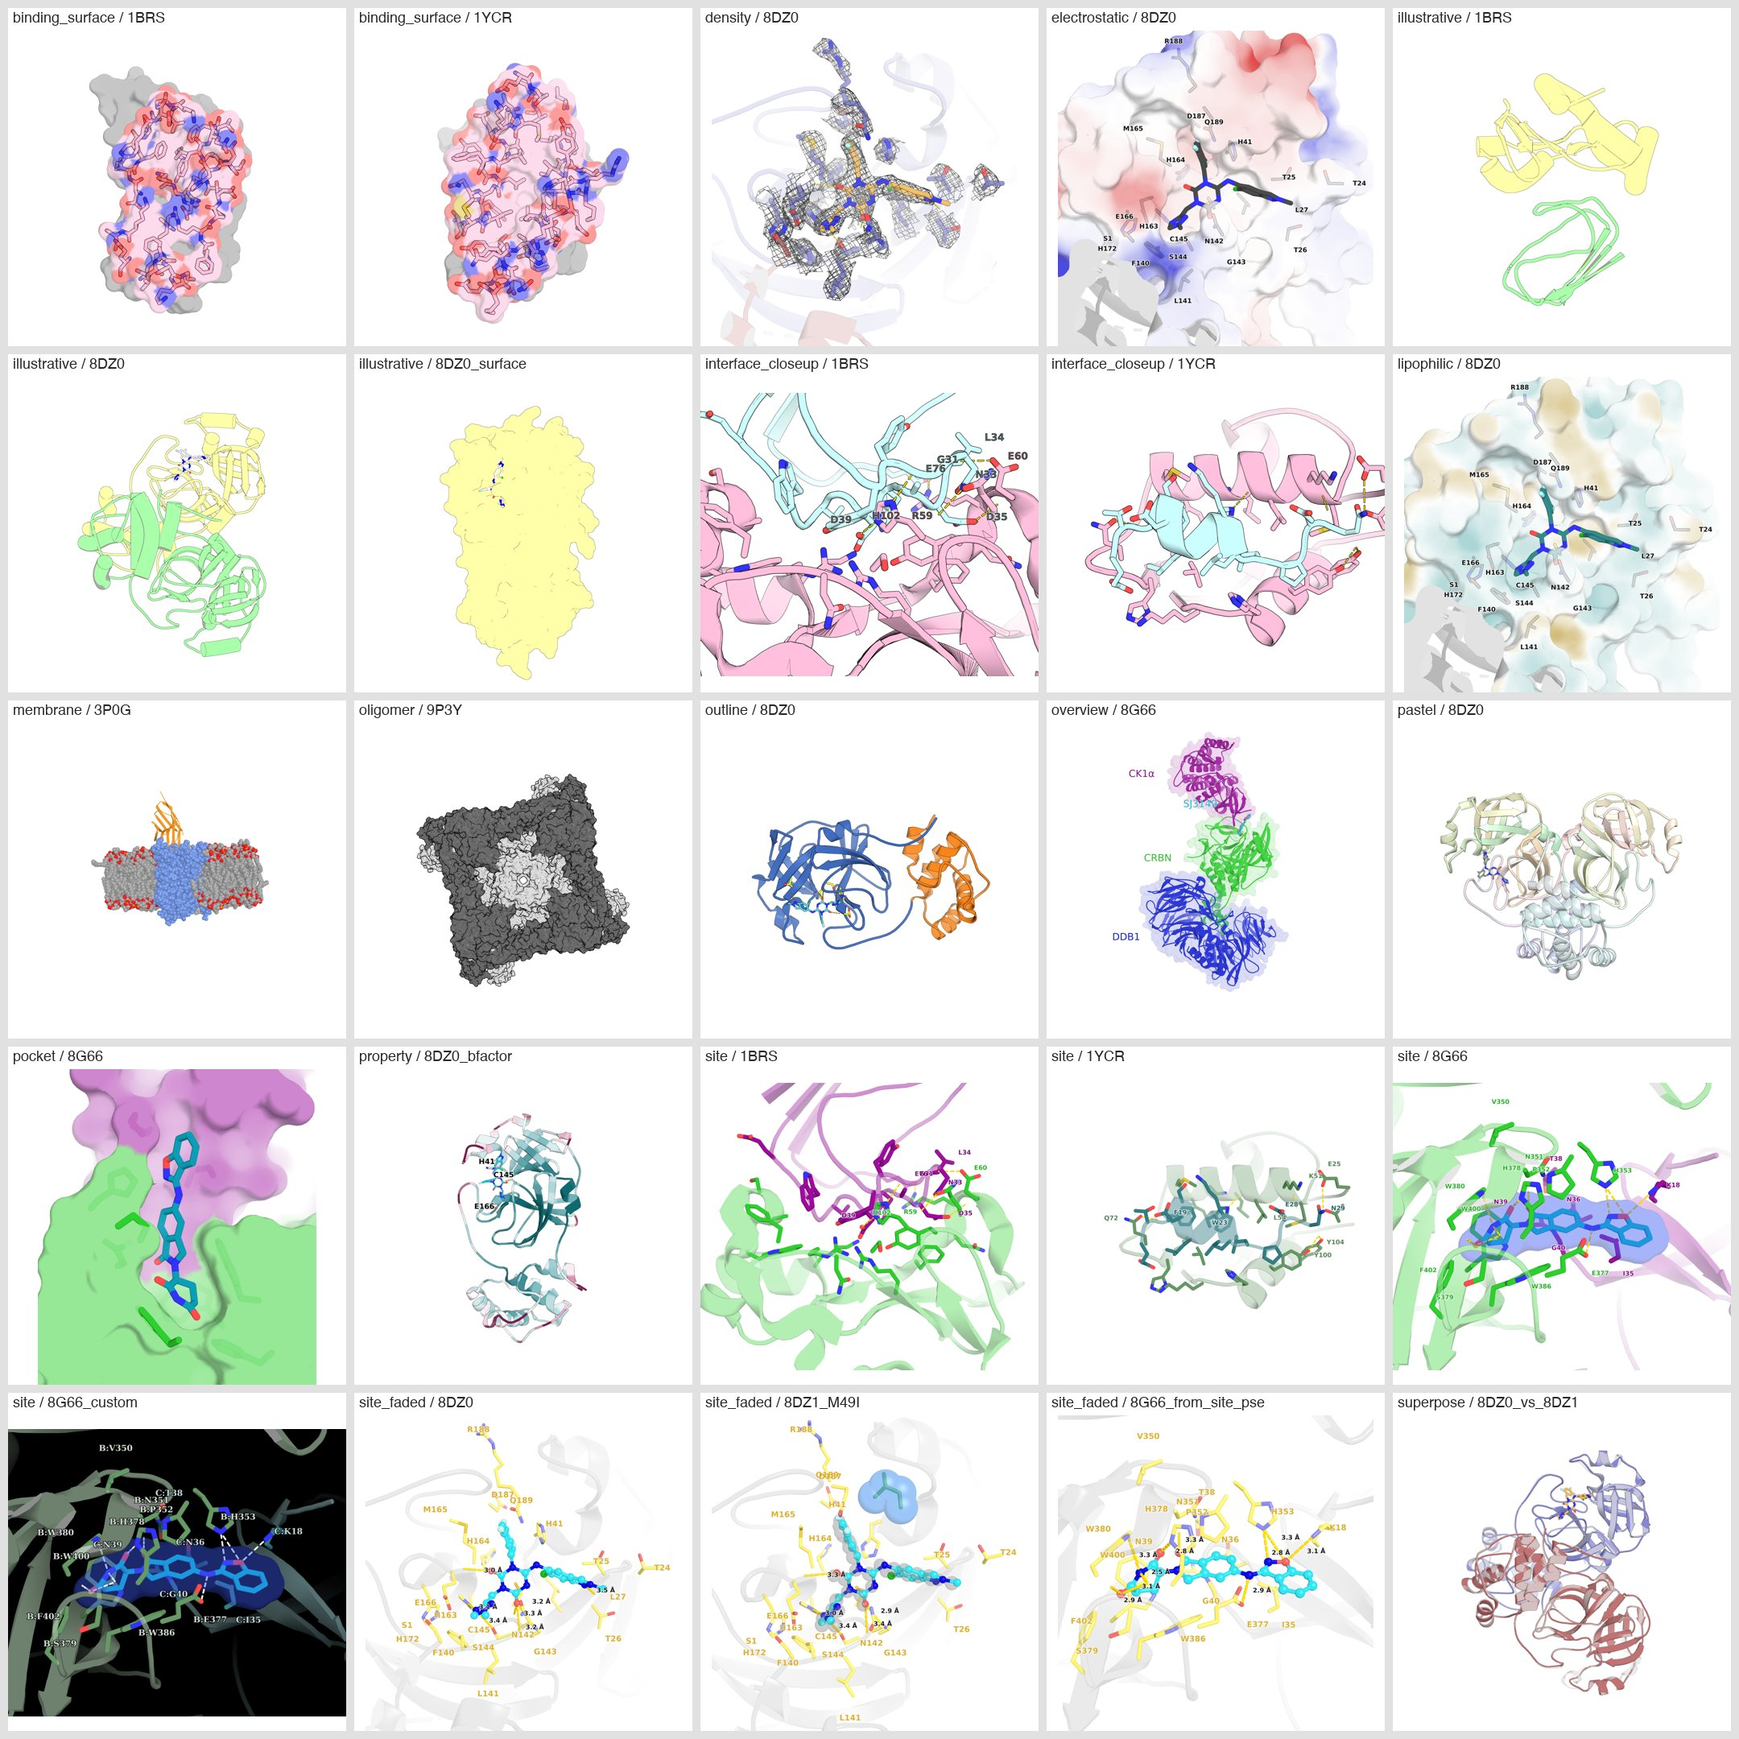
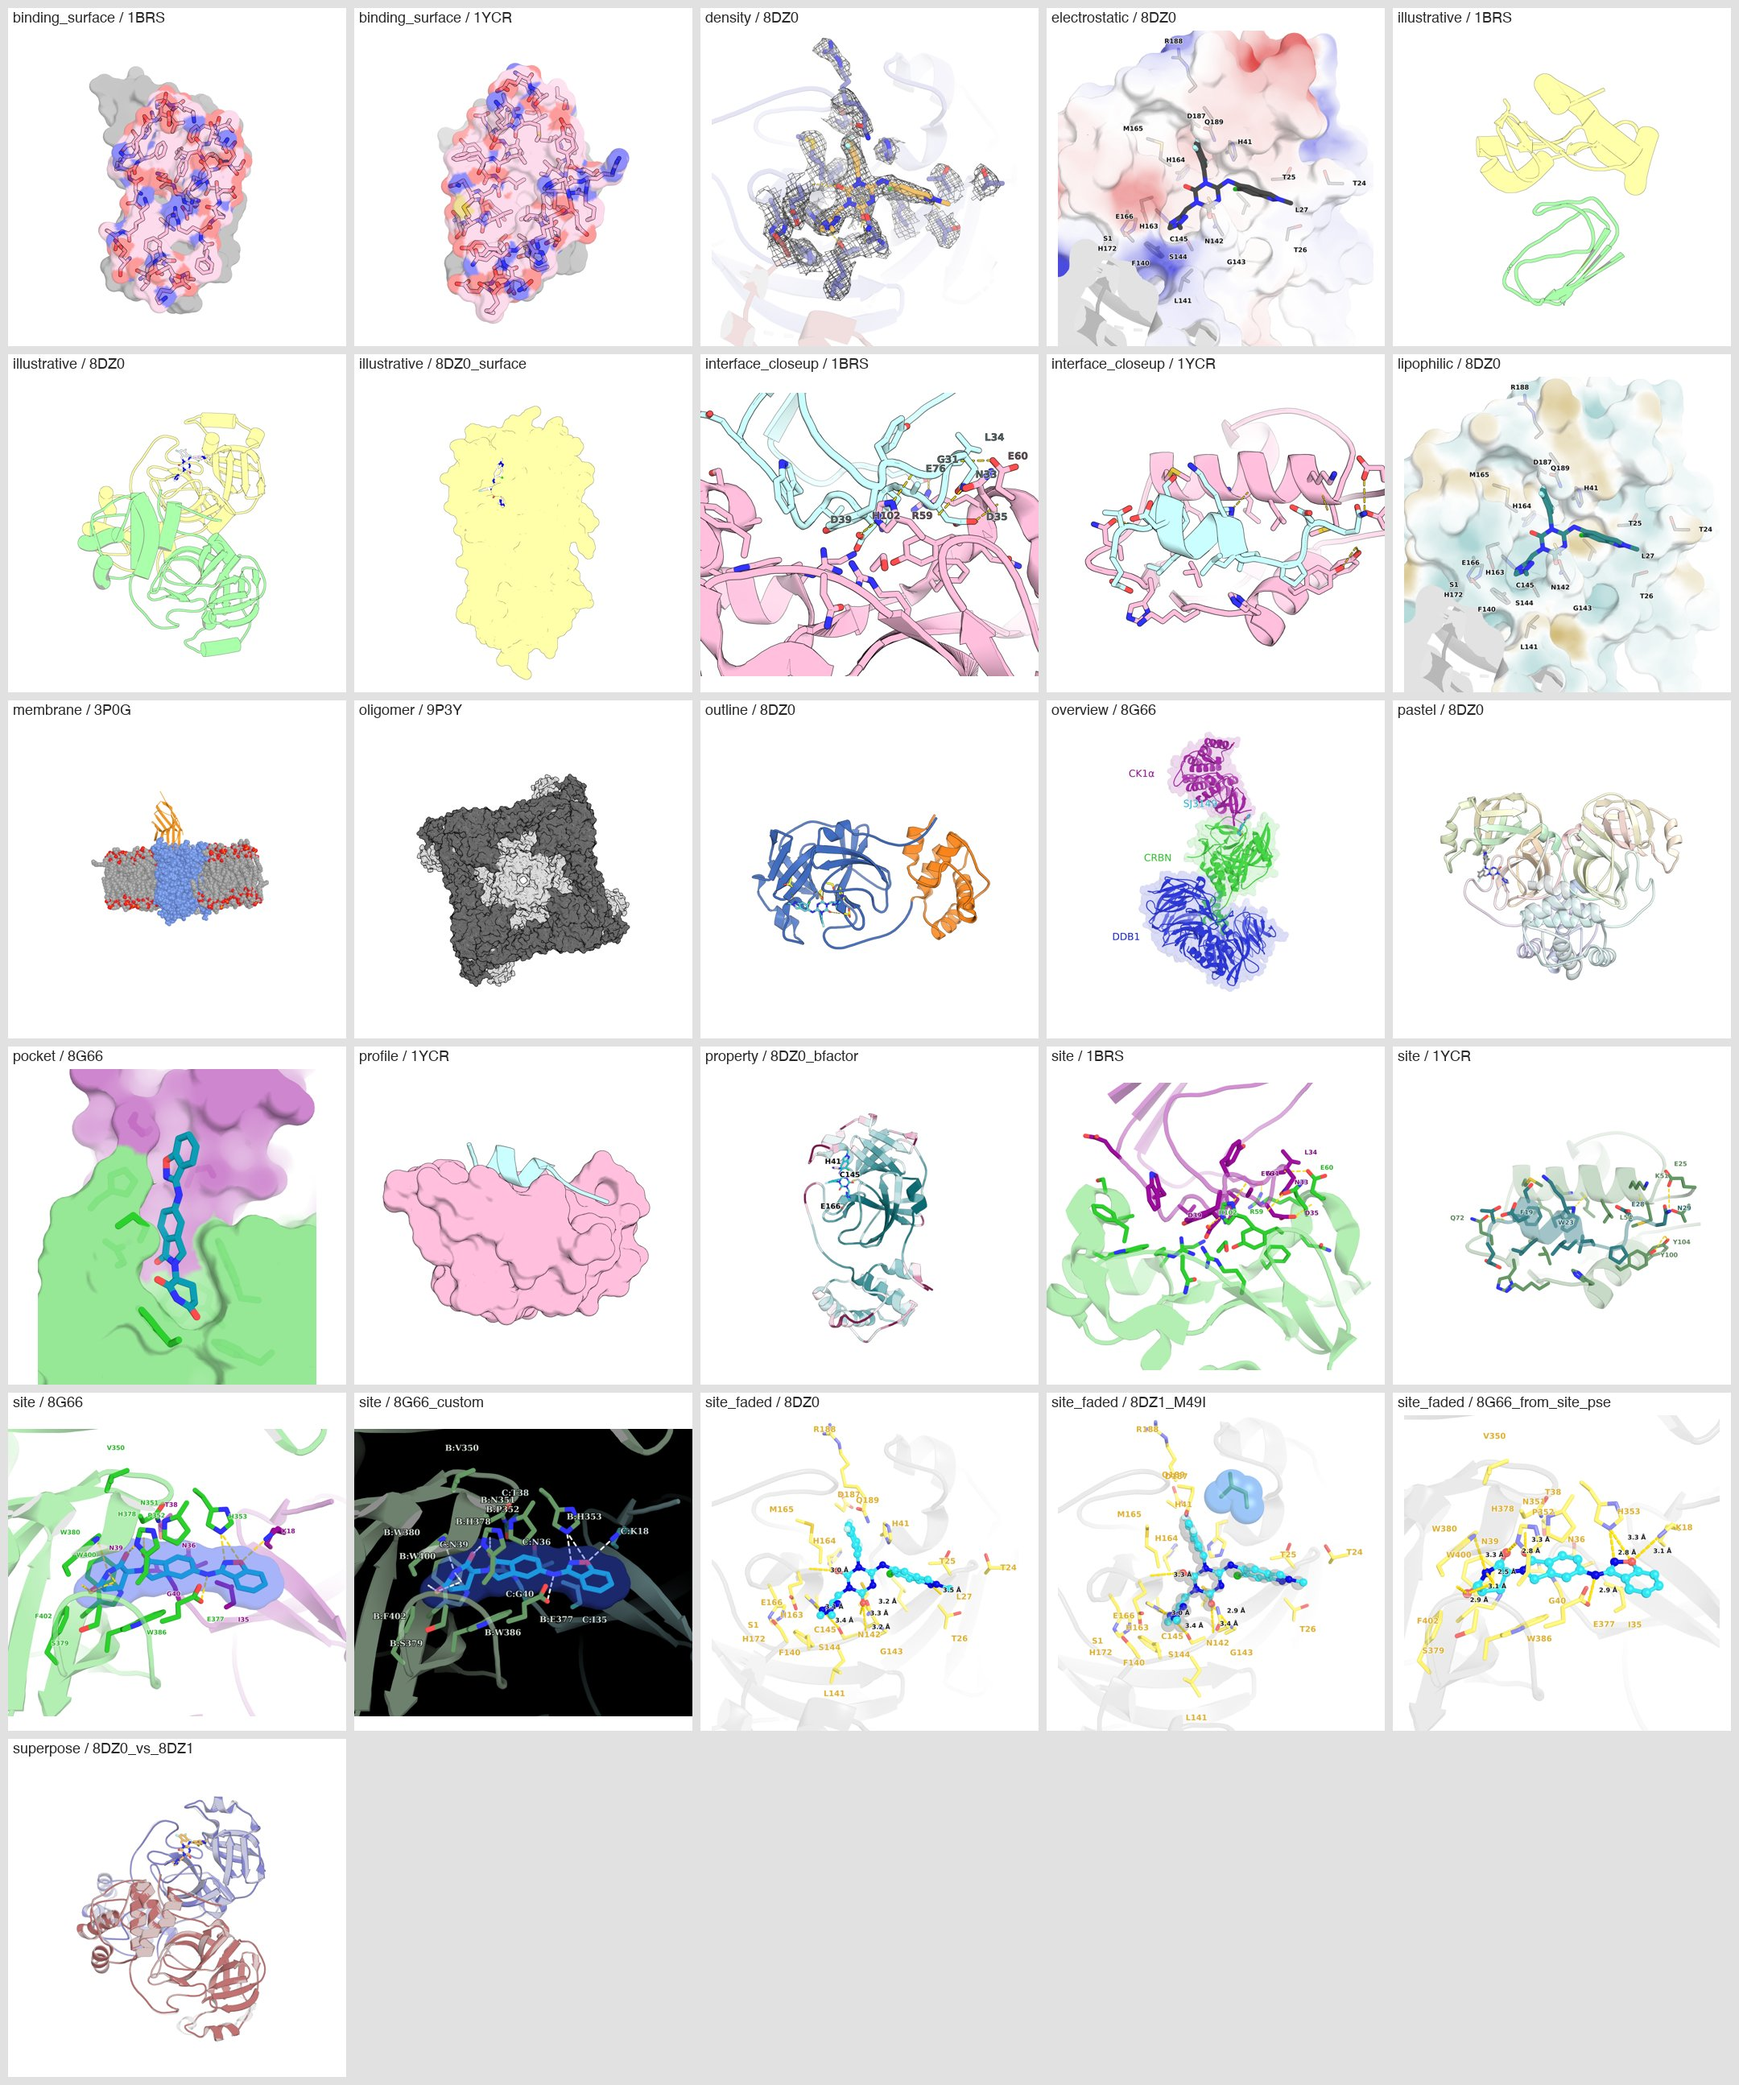
Add profile preset: side view of receptor surface with partner cartoon on top

diff --git a/protfig_lib/presets.py b/protfig_lib/presets.py
@@ -828,6 +828,47 @@ def interface_closeup(ctx):
     return view
 
 
+@preset(partner="required", kinds=("peptide", "protein"), size=(1800, 1200), glycans=True)
+def profile(ctx):
+    """Side view of the whole complex: receptor as a solid light-pink surface, peptide/protein partner
+    as a pale-cyan cartoon on top, black outline. The camera looks along the
+    binding interface, with the partner above the receptor and the long axis of the complex
+    horizontal. --receptor_color / --partner_color to recolor; --partner_sticks on adds side chains."""
+    a = ctx.a
+    need_partner(ctx, "profile")
+    if a.partner_sticks is None:
+        a.partner_sticks = "off"
+    cmd.create("SURFACE", ctx.receptor)
+    cmd.hide("everything", "SURFACE")
+    cmd.show("surface", "SURFACE")
+    cmd.color(define("mf_rec", ctx.rgb("receptor_color", "lightpink")), "SURFACE")
+    cmd.set("transparency", ctx.opt("surface_transparency", 0.0), "SURFACE")
+    par_c = rgb_of(a.partner_color) if a.partner_color else rgb_of("palecyan")
+    show_partner(ctx, par_c, radius=0.3, cartoon=par_c)
+    finish_lighting(ray_trace_mode=1, ray_trace_gain=0.1, ambient=0.5, direct=0.5, specular=0, spec_reflect=0,
+                    cartoon_transparency=0, cartoon_loop_radius=0.3, cartoon_fancy_helices=0, ray_shadows=0)
+    if a.view or (ctx.session_view and not a.auto_view):
+        return ctx.view("overview")
+    # partner above the receptor (up = receptor centroid -> partner), partner long axis horizontal,
+    # camera raised 30 degrees so a partner lying in a groove is not hidden by its walls
+    L, P = cmd.get_coords("lig_core"), cmd.get_coords(ctx.receptor)
+    up = L.mean(0) - P.mean(0)
+    up /= np.linalg.norm(up)
+    both = np.vstack([L, P])
+    ax = np.linalg.svd(L - L.mean(0))[2][0] if len(L) > 2 else np.linalg.svd(both - both.mean(0))[2][0]
+    x = ax - np.dot(ax, up) * up
+    x /= np.linalg.norm(x)
+    t = np.radians(30.0)
+    z = np.cos(t) * np.cross(x, up) + np.sin(t) * up
+    y = up - np.dot(up, z) * z
+    y /= np.linalg.norm(y)
+    R = adjust(np.vstack([np.cross(y, z), y, z]), a)
+    xyz = np.vstack([cmd.get_coords(ctx.receptor), cmd.get_coords("PARTNER_MOL")])
+    cam = xyz @ R.T
+    center = ((cam.max(axis=0) + cam.min(axis=0)) / 2) @ R
+    return frame(R, center, xyz, ctx.aspect, margin=1.05)
+
+
 @preset(partner="none", kinds=(), size=(1280, 960), glycans=True)
 def oligomer(ctx):
     """Oligomeric assembly as a surface, one color per chain (default: alternating light/dark

diff --git a/README.md b/README.md
@@ -45,6 +45,7 @@ quick preview.
 | `pocket` | The ligand or peptide lying in its surface groove |
 | `interface_closeup` | Close-up of a protein-protein or peptide interface |
 | `binding_surface` | Binding footprint on the receptor surface |
+| `profile` | Side view: receptor surface with the peptide or protein partner on top |
 | `density` | Site with the electron-density mesh |
 | `overview` | Whole complex, colored by chain |
 | `outline` | Cartoon with outline, highlighted region and key residues |
